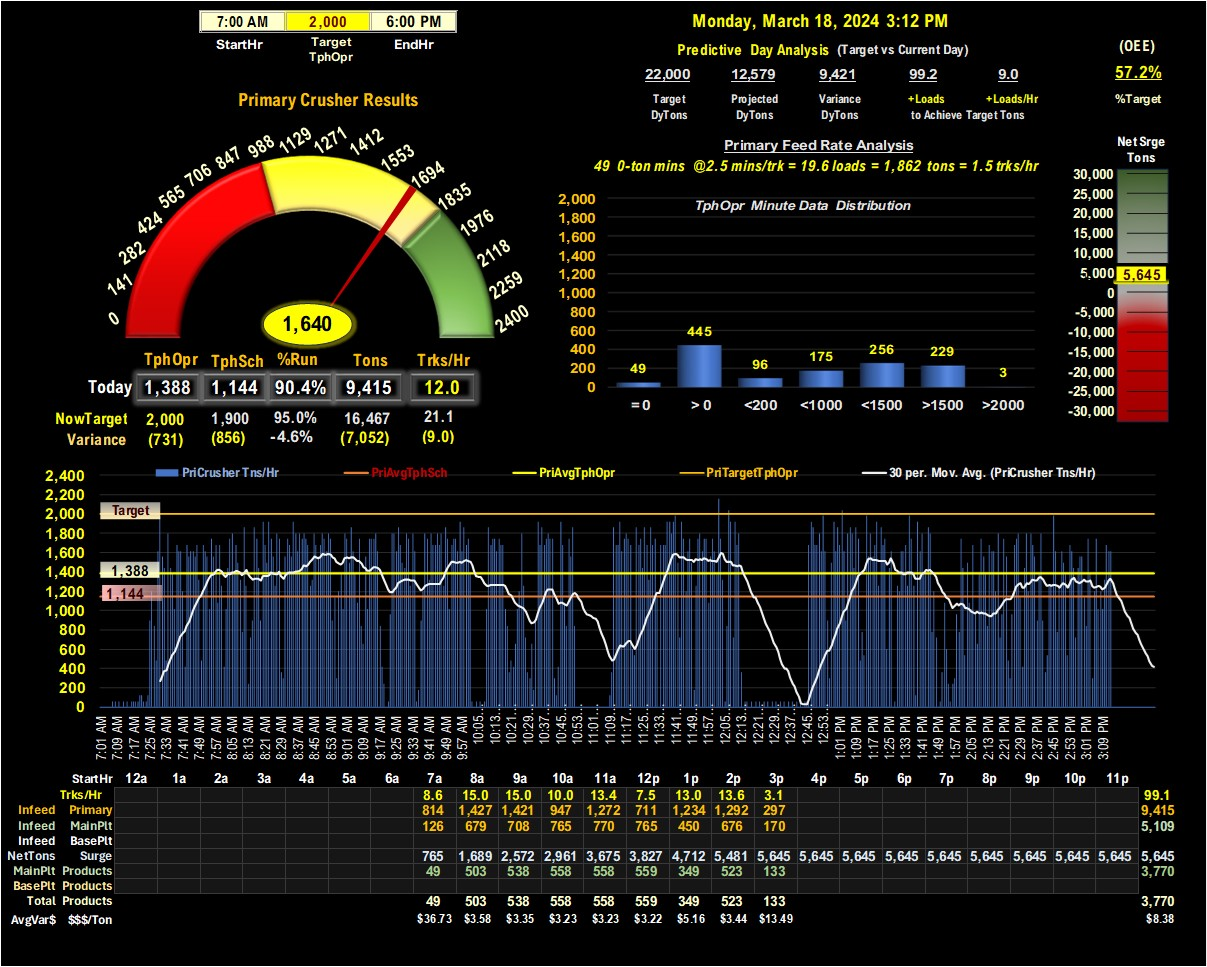
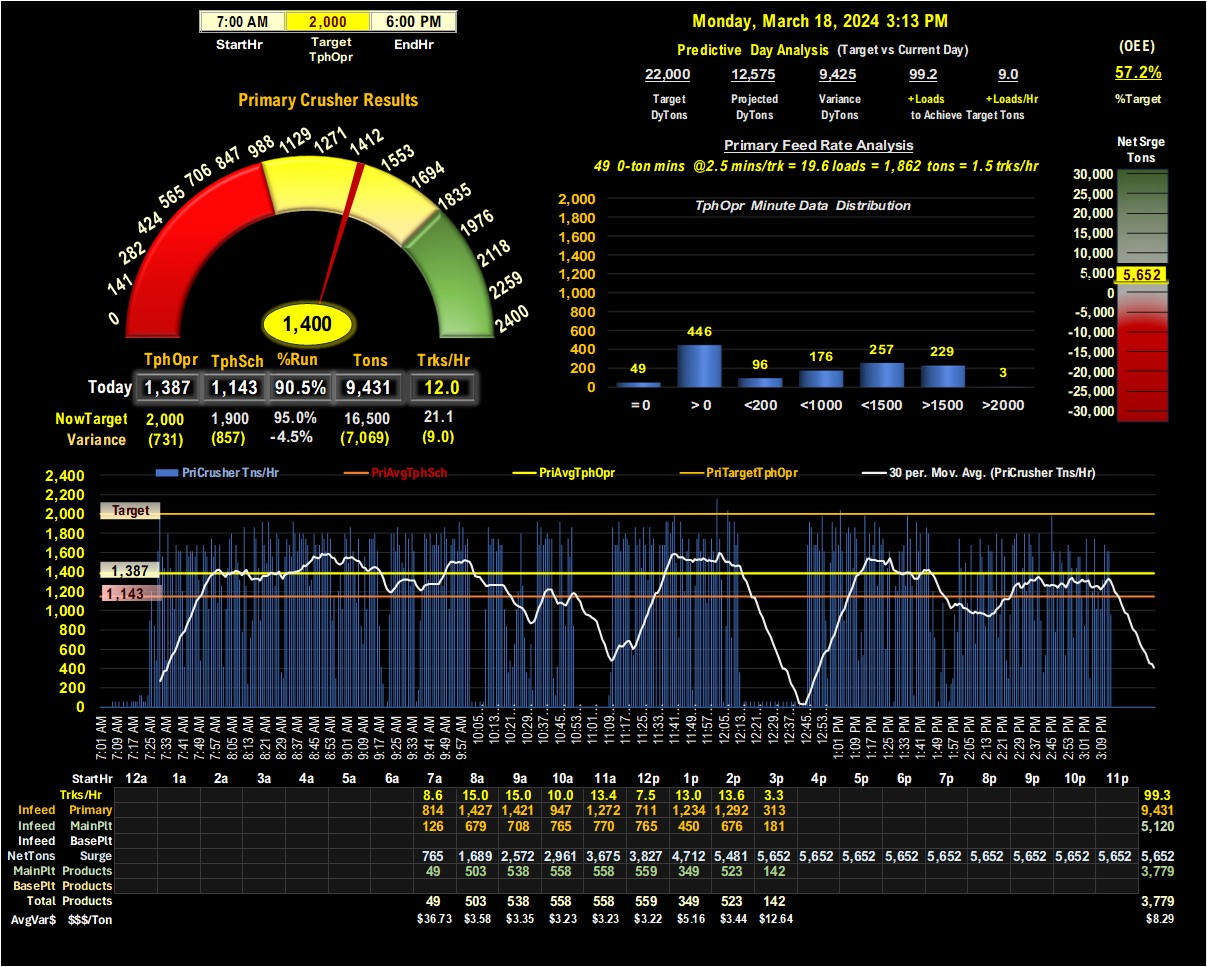
new commit

diff --git a/ColLSPri1.py b/ColLSPri1.py
@@ -3,7 +3,6 @@ import streamlit as st
 import threading
 import time
 
-
 # Set Page Configuration
 st.set_page_config(layout="wide", initial_sidebar_state="collapsed")
 
@@ -40,28 +39,26 @@ st.markdown("""
 image_path = "ColLSPri.jpg"
 image = Image.open(image_path)
 
-def your_function_to_update(image_container):
-    # Refresh the image
+# Function to update the displayed image
+def update_image(image_container):
     new_image = Image.open(image_path)
     image_container.image(new_image, use_column_width=True)
 
-def rerun_thread(image_container):
-    while True:  # Run indefinitely
-        # Sleep for 60 seconds
+def update_loop(image_container):
+    while True:
+        # Update the image every 60 seconds
         time.sleep(60)
-        # Rerun the update function
-        your_function_to_update(image_container)
+        # Call the update_image function to refresh the image
+        update_image(image_container)
 
 def main():
-    # Display the image to automatically resize with the column width
-    st.image(image_path, use_column_width=True)
+    # Display the image initially
+    image_container = st.empty()
+    update_image(image_container)
 
-    # Keep updating the image every 60 seconds
-    while True:
-        time.sleep(60)
-        # Force Streamlit to rerun the loop by modifying a widget
-        st.write(f"Updating at: {time.strftime('%H:%M:%S')}")
+    # Start a separate thread to handle the update loop
+    update_thread = threading.Thread(target=update_loop, args=(image_container,))
+    update_thread.start()
 
 if __name__ == '__main__':
     main()
-
